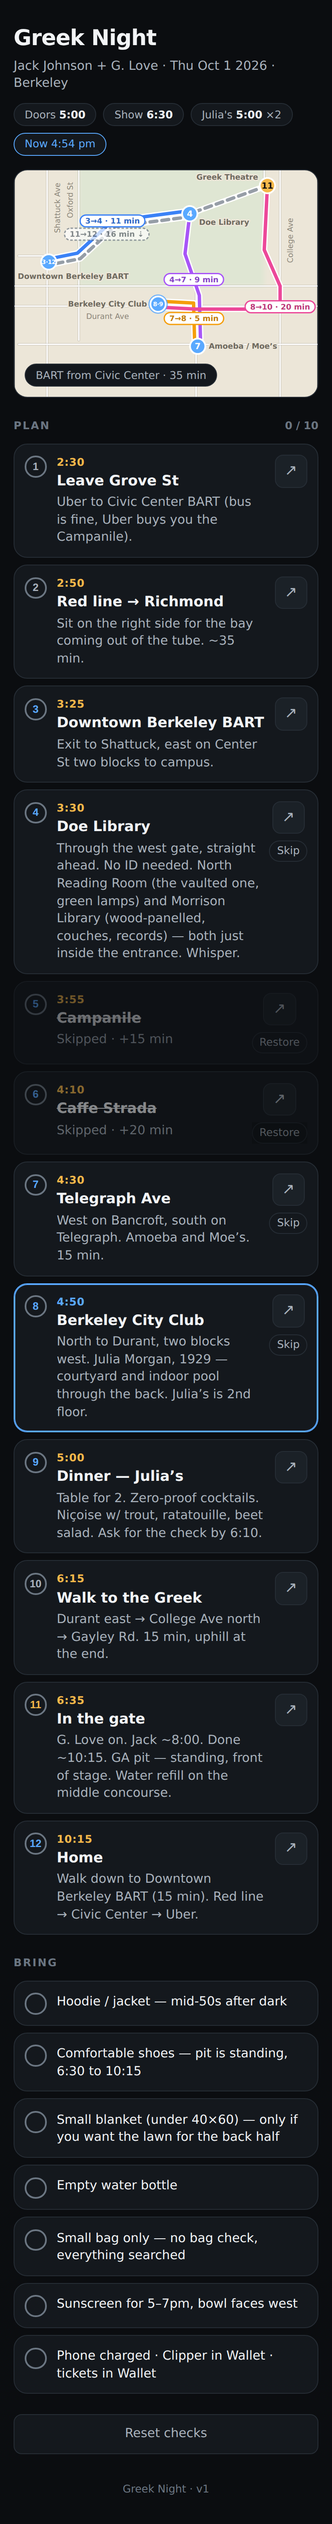
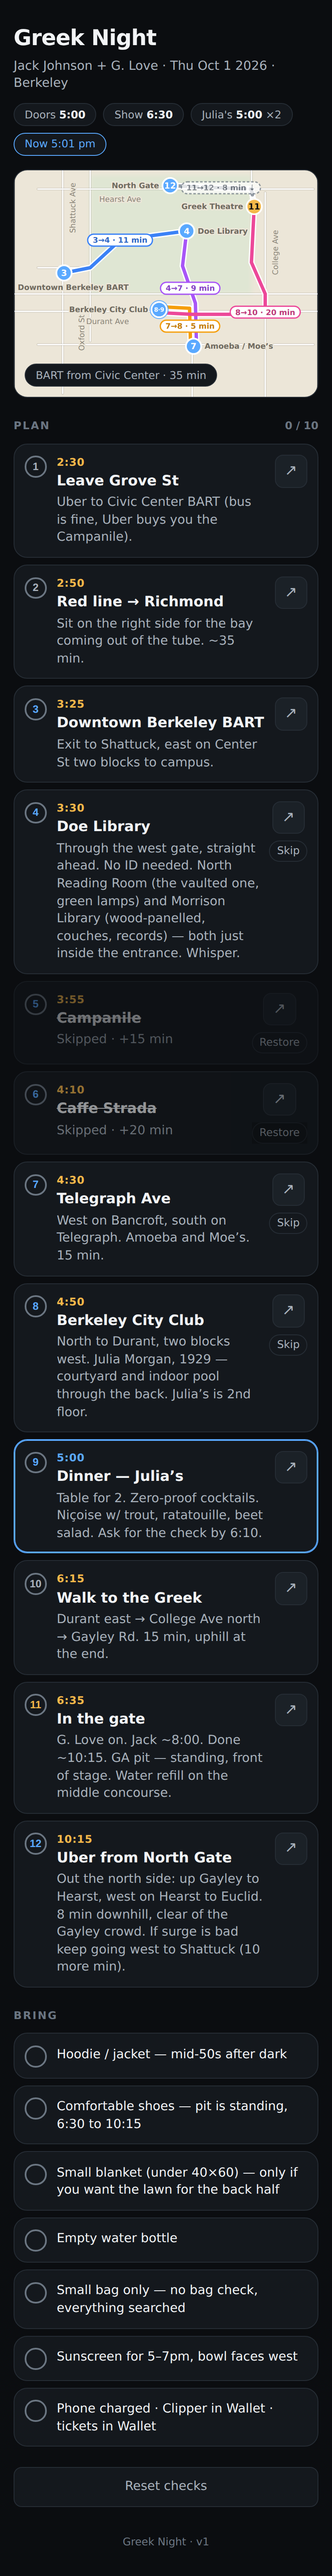
greek-night: pinch zoom, always-on location, Uber from North Gate
Pinch zoom and always-on location landed in d1ec303; this commit adds
the rest.

Step 12 is now an Uber from North Gate (Hearst & Euclid): its own pin,
the BART pin back to step 3 alone, and the dashed return walks Greek →
Gayley & Hearst → North Gate (8 min). The map refits to take the new
pin, and Hearst Ave is labelled. To keep the taller frame readable, the
most boxed-in pin names are placed first, east–west street names go
before north–south ones, and street names may sit just outside a pair
of parallel legs.

The pin popup is up to 250px wide and sizes to its content, so a pin
near the card's edge can't squeeze it.

Claude-Session: https://claude.ai/code/session_01SYEqCQ4izqiJdBAjLeUwFf

diff --git a/greek-night.html b/greek-night.html
@@ -87,7 +87,7 @@
   .pin.now .pulse{display:block;animation:gnPulse 2s ease-out infinite}
   @keyframes gnPulse{from{transform:scale(1);opacity:.9}to{transform:scale(2.6);opacity:0}}
   @media (prefers-reduced-motion:reduce){.pin.now .pulse{animation:none;transform:scale(1.6);opacity:.6}}
-  .pinpop{position:absolute;z-index:4;min-width:168px;max-width:230px;background:var(--card2);border:1px solid var(--line);border-radius:var(--r);padding:var(--s2) var(--s3);box-shadow:0 8px 26px rgba(0,0,0,.45);font-size:var(--t4);line-height:1.35;transform:translate(-50%,-100%)}
+  .pinpop{position:absolute;z-index:4;width:max-content;min-width:168px;max-width:250px;background:var(--card2);border:1px solid var(--line);border-radius:var(--r);padding:var(--s2) var(--s3);box-shadow:0 8px 26px rgba(0,0,0,.45);font-size:var(--t4);line-height:1.35;transform:translate(-50%,-100%)}
   .pinpop.below{transform:translate(-50%,0)}
   .pinpop .pp{display:flex;align-items:center;gap:var(--s2);color:inherit;text-decoration:none}
   .pinpop .pp-t{flex:1;min-width:0}
@@ -154,7 +154,7 @@
     {t:'5:00', h:17, m:0, title:'Dinner — Julia’s', note:'Table for 2. Zero-proof cocktails. Niçoise w/ trout, ratatouille, beet salad. Ask for the check by 6:10.', map:M('Julia’s Restaurant 2315 Durant Ave Berkeley')},
     {t:'6:15', h:18, m:15, title:'Walk to the Greek', note:'Durant east → College Ave north → Gayley Rd. 15 min, uphill at the end.', map:M('Greek Theatre 2001 Gayley Rd Berkeley')},
     {t:'6:35', h:18, m:35, title:'In the gate', note:'G. Love on. Jack ~8:00. Done ~10:15. GA pit — standing, front of stage. Water refill on the middle concourse.', map:M('Greek Theatre 2001 Gayley Rd Berkeley')},
-    {t:'10:15', h:22, m:15, title:'Home', note:'Walk down to Downtown Berkeley BART (15 min). Red line → Civic Center → Uber.', map:M('Downtown Berkeley BART Station')}
+    {t:'10:15', h:22, m:15, title:'Uber from North Gate', note:'Out the north side: up Gayley to Hearst, west on Hearst to Euclid. 8 min downhill, clear of the Gayley crowd. If surge is bad keep going west to Shattuck (10 more min).', map:M('Hearst Ave & Euclid Ave Berkeley')}
   ];
 
   var BRING = [
@@ -256,13 +256,14 @@
 
   /* ---------- map hero: offline SVG, projected from the data ---------- */
   var PLACES = [
-    {n:'Downtown Berkeley BART', lat:37.8699, lng:-122.2681, steps:[3, 12]},
+    {n:'Downtown Berkeley BART', lat:37.8699, lng:-122.2681, steps:[3]},
     {n:'Doe Library', lat:37.8723, lng:-122.2592, steps:[4]},
     {n:'Campanile', lat:37.8721, lng:-122.2578, steps:[5]},
     {n:'Caffe Strada', lat:37.8688, lng:-122.2533, steps:[6]},
     {n:'Amoeba / Moe’s', lat:37.8657, lng:-122.2587, steps:[7]},
     {n:'Berkeley City Club', lat:37.8678, lng:-122.2612, steps:[8, 9]},
-    {n:'Greek Theatre', lat:37.8737, lng:-122.2543, steps:[11], greek:true}
+    {n:'Greek Theatre', lat:37.8737, lng:-122.2543, steps:[11], greek:true},
+    {n:'North Gate', lat:37.8749, lng:-122.2604, steps:[12], home:true}   /* the Uber home: end of the return, not on the walk out */
   ];
   /* walk out, as legs between pins: the waypoints between the two; the Bancroft & College retrace is the same sidewalk */
   var LEG_WP = {
@@ -296,7 +297,7 @@
   /* a pin stays while any of its steps is live: skip 8 and City Club remains for dinner, reading 9 */
   function liveSteps(s){ return s.steps.filter(function(k){ return !isSkipped(k); }); }
   function livePlaces(){ return PLACES.filter(function(s){ return liveSteps(s).length > 0; }); }
-  var BACK = [[37.8737, -122.2543], [37.8723, -122.2592], [37.8718, -122.2640], [37.8702, -122.2662], [37.8699, -122.2681]];
+  var BACK = [[37.8737, -122.2543], [37.8747, -122.2545], [37.8749, -122.2604]];   /* Greek → Gayley & Hearst → North Gate */
   /* [name, N–S?, fixed coord, from, to (null = full fitted width), labelled] */
   var STREETS = [
     ['Shattuck Ave', true, -122.2682, 37.863, 37.878, true],
@@ -306,7 +307,7 @@
     ['Durant Ave', false, 37.8677, null, null, true],
     ['Bancroft Way', false, 37.8687, null, null, false],
     ['Haste St', false, 37.8658, -122.270, -122.250, false],
-    ['Hearst Ave', false, 37.8747, -122.270, -122.250, false],
+    ['Hearst Ave', false, 37.8747, -122.270, -122.250, true],
     ['Center St', false, 37.8702, -122.270, -122.2662, false],
     ['Gayley Rd', true, -122.2545, 37.8705, 37.876, false]
   ];
@@ -317,7 +318,7 @@
     return 2 * R * Math.asin(Math.sqrt(x));
   }
   function walkLegs(){
-    var live = livePlaces(), legs = [];
+    var live = livePlaces().filter(function(s){ return !s.home; }), legs = [];   /* the walk out; North Gate is only the return's end */
     for (var i = 1; i < live.length; i++) {
       var a = live[i - 1], b = live[i], pts = [[a.lat, a.lng]];
       var key = a.steps[0] + '-' + b.steps[0];
@@ -330,9 +331,9 @@
       legs.push({pts:pts, mph:b.greek ? 2.5 : 3, a:a, b:b, col:legColour(a.steps[0]),
                  name:liveSteps(a)[0] + '→' + (b.greek ? 10 : liveSteps(b)[0])});
     }
-    /* the return's pill sits on its visible dashed stretch (Greek → Doe) */
-    var greek = PLACES[PLACES.length - 1], bart = PLACES[0];
-    legs.push({pts:BACK, mph:3, ret:true, place:BACK.slice(0, 2), a:greek, b:bart, col:LEG_COLOURS.ret, name:'11→12'});
+    /* the walk back out: Greek → North Gate for the Uber */
+    var greek = PLACES.filter(function(s){ return s.greek; })[0], home = PLACES.filter(function(s){ return s.home; })[0];
+    legs.push({pts:BACK, mph:3, ret:true, a:greek, b:home, col:LEG_COLOURS.ret, name:'11→12'});
     legs.forEach(function(l){
       var m = 0;
       for (var j = 1; j < l.pts.length; j++) m += metres(l.pts[j - 1], l.pts[j]);
@@ -632,11 +633,6 @@
         return null;
       }
       var fr0 = 0.5;
-      if (l.place) {   /* the return: the midpoint of its dashed Greek → Doe stretch, as a fraction of the whole drawn return */
-        var doe = Ps(l.place[1][0], l.place[1][1]), bi = 0, bd = Infinity;
-        pts.forEach(function(q, k){ var d = Math.hypot(q[0] - doe[0], q[1] - doe[1]); if (d < bd) { bd = d; bi = k; } });
-        fr0 = cum[bi] / 2 / cum[cum.length - 1];
-      }
       var c = at(fr0), q = crowding(c);
       if (q) {
         var step = 1.5 / cum[cum.length - 1], a0 = at(Math.max(0, fr0 - step)), b0 = at(Math.min(1, fr0 + step));
@@ -654,11 +650,10 @@
       ob.rects.push({x:c[0] - pw / 2 - 2, y:c[1] - ph / 2 - 2, w:pw + 4, h:ph + 4});
     });
 
-    /* pin names: right of the pin (left in the right third), then the other side, then above / below */
-    livePlaces().forEach(function(s){
-      var p = Ps(s.lat, s.lng);
-      if (!onScreen(p, 0)) return;   /* off the zoomed window: nothing to label */
-      var len = measure('pin-l', s.n), H = 10;
+    /* pin names: right of the pin (left in the right third), then the other side, then above / below.
+       The most boxed-in pin picks first, so a roomy neighbour doesn't take the only spot near it. */
+    function nameCands(s){
+      var p = Ps(s.lat, s.lng), len = measure('pin-l', s.n), H = 10;
       var R = {r:{x:p[0] + 13, y:p[1] - 5, w:len, h:H}, anchor:'start', x:p[0] + 13};
       var L = {r:{x:p[0] - 13 - len, y:p[1] - 5, w:len, h:H}, anchor:'end', x:p[0] - 13};
       var cands = p[0] > w * 2 / 3 ? [L, R] : [R, L];
@@ -671,40 +666,53 @@
         cands.push({r:{x:p[0] + 8, y:y, w:len, h:H}, anchor:'start', x:p[0] + 8});
         cands.push({r:{x:p[0] - 8 - len, y:y, w:len, h:H}, anchor:'end', x:p[0] - 8});
       });
-      var bb = best(cands), b = bb.c;
-      if (bb.s > 0) {
-        /* crowded corner: take the nearest clear spot close to the pin instead */
-        var near = null, nd = Infinity;
-        for (var dy = -44; dy <= 44; dy++) for (var dx = -len - 44; dx <= 44; dx++) {
-          var r = {x:p[0] + dx, y:p[1] + dy, w:len, h:H};
-          var qx = Math.max(r.x, Math.min(p[0], r.x + r.w)) - p[0], qy = Math.max(r.y, Math.min(p[1], r.y + r.h)) - p[1];
-          var d = Math.sqrt(qx * qx + qy * qy);
-          if (d < nd && scoreBox(r, ob, w, h) === 0) { nd = d; near = r; }
+      return cands;
+    }
+    livePlaces().filter(function(s){ return onScreen(Ps(s.lat, s.lng), 0); })   /* off the zoomed window: nothing to label */
+      .map(function(s, i){ return {s:s, i:i, free:nameCands(s).filter(function(c){ return scoreBox(c.r, ob, w, h) === 0; }).length}; })
+      .sort(function(x, y){ return x.free - y.free || x.i - y.i; })
+      .forEach(function(e){
+        var s = e.s, p = Ps(s.lat, s.lng), len = measure('pin-l', s.n), H = 10, cands = nameCands(s);
+        var bb = best(cands), b = bb.c;
+        if (bb.s > 0) {
+          /* crowded corner: take the nearest clear spot close to the pin instead */
+          var near = null, nd = Infinity;
+          for (var dy = -44; dy <= 44; dy++) for (var dx = -len - 44; dx <= 44; dx++) {
+            var r = {x:p[0] + dx, y:p[1] + dy, w:len, h:H};
+            var qx = Math.max(r.x, Math.min(p[0], r.x + r.w)) - p[0], qy = Math.max(r.y, Math.min(p[1], r.y + r.h)) - p[1];
+            var d = Math.sqrt(qx * qx + qy * qy);
+            if (d < nd && scoreBox(r, ob, w, h) === 0) { nd = d; near = r; }
+          }
+          if (near) b = {r:near, anchor:'start', x:near.x};
         }
-        if (near) b = {r:near, anchor:'start', x:near.x};
-      }
-      var g = kGroup('pin-lg', FIT.P(s.lat, s.lng), gl);
-      S('text', {'class':'pin-l', x:f(b.x - p[0]), y:f(b.r.y + 8 - p[1]), 'text-anchor':b.anchor}, g).textContent = s.n;
-      ob.rects.push(b.r);
-    });
+        var g = kGroup('pin-lg', FIT.P(s.lat, s.lng), gl);
+        S('text', {'class':'pin-l', x:f(b.x - p[0]), y:f(b.r.y + 8 - p[1]), 'text-anchor':b.anchor}, g).textContent = s.n;
+        ob.rects.push(b.r);
+      });
 
-    /* street names: beside the line on its visible part; a street with no clear spot goes unlabelled rather than under the route */
-    STREETS.forEach(function(st, i){
+    /* street names: beside the line on its visible part; a street with no clear spot goes unlabelled rather than under the route.
+       East–west names go first: a north–south name can slide along its whole street, Hearst only has a strip by the top edge. */
+    STREETS.map(function(st, i){ return i; }).sort(function(i, j){ return STREETS[i][1] - STREETS[j][1] || i - j; }).forEach(function(i){
+      var st = STREETS[i];
       if (!st[5]) return;
       var a = toScreen(FIT.streets[i][0]), b = toScreen(FIT.streets[i][1]), len = measure('gn-st-l', st[0]), cands = [];
-      [0.7, 0.5, 0.85, 0.3, 0.15, 0.6, 0.4, 0.95, 0.05].forEach(function(fr){
-        if (st[1]) {
-          var y0 = Math.min(h - 6, Math.max(a[1], b[1])), y1 = Math.max(6, Math.min(a[1], b[1]));
-          var ly = y0 - (y0 - y1) * fr, x = a[0];
-          /* a rotated label renders about a unit wider than its nominal 10: allow for it */
-          cands.push({r:{x:x + 5, y:ly - len / 2, w:12, h:len}, x:x, y:ly, dy:'15', rot:true});
-          cands.push({r:{x:x - 17, y:ly - len / 2, w:12, h:len}, x:x, y:ly, dy:'-7', rot:true});
-        } else {
-          var x0 = Math.max(6, Math.min(a[0], b[0])), x1 = Math.min(w - 6, Math.max(a[0], b[0]));
-          var lx = x0 + (x1 - x0) * fr - len / 2, yy = a[1];
-          cands.push({r:{x:lx, y:yy - 16, w:len, h:10}, x:lx, y:yy, dy:'-8'});
-          cands.push({r:{x:lx, y:yy + 6, w:len, h:10}, x:lx, y:yy, dy:'15'});
-        }
+      /* the preferred spots first, then every 5% along, for a street whose free stretch is short; then the same again
+         5 units farther out, for a street carrying a pair of parallel legs */
+      [0, 5].forEach(function(o){
+        [0.7, 0.5, 0.85, 0.3, 0.15, 0.6, 0.4, 0.95, 0.05, 0.75, 0.65, 0.55, 0.45, 0.35, 0.25, 0.2, 0.1, 0.8, 0.9].forEach(function(fr){
+          if (st[1]) {
+            var y0 = Math.min(h - 6, Math.max(a[1], b[1])), y1 = Math.max(6, Math.min(a[1], b[1]));
+            var ly = y0 - (y0 - y1) * fr, x = a[0];
+            /* a rotated label renders about a unit wider than its nominal 10: allow for it */
+            cands.push({r:{x:x + 5 + o, y:ly - len / 2, w:12, h:len}, x:x, y:ly, dy:String(15 + o), rot:true});
+            cands.push({r:{x:x - 17 - o, y:ly - len / 2, w:12, h:len}, x:x, y:ly, dy:String(-7 - o), rot:true});
+          } else {
+            var x0 = Math.max(6, Math.min(a[0], b[0])), x1 = Math.min(w - 6, Math.max(a[0], b[0]));
+            var lx = x0 + (x1 - x0) * fr - len / 2, yy = a[1];
+            cands.push({r:{x:lx, y:yy - 16 - o, w:len, h:10}, x:lx, y:yy, dy:String(-8 - o)});
+            cands.push({r:{x:lx, y:yy + 6 + o, w:len, h:10}, x:lx, y:yy, dy:String(15 + o)});
+          }
+        });
       });
       var r = best(cands);
       if (r.s > 0) return;
